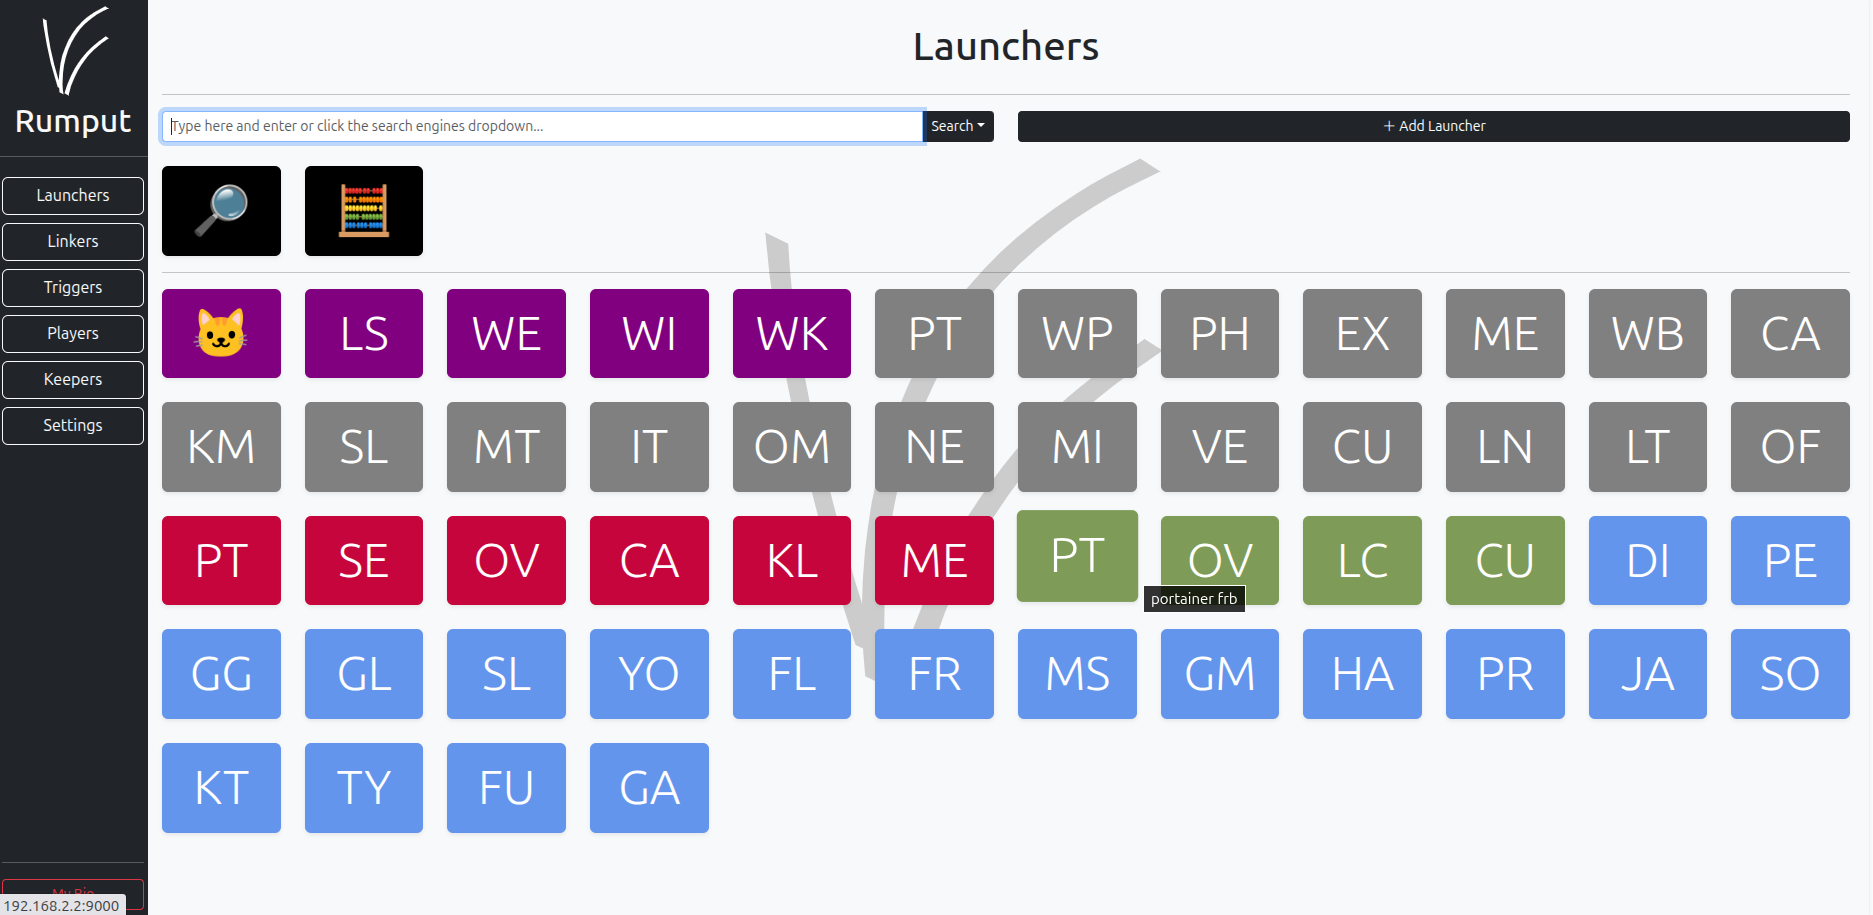
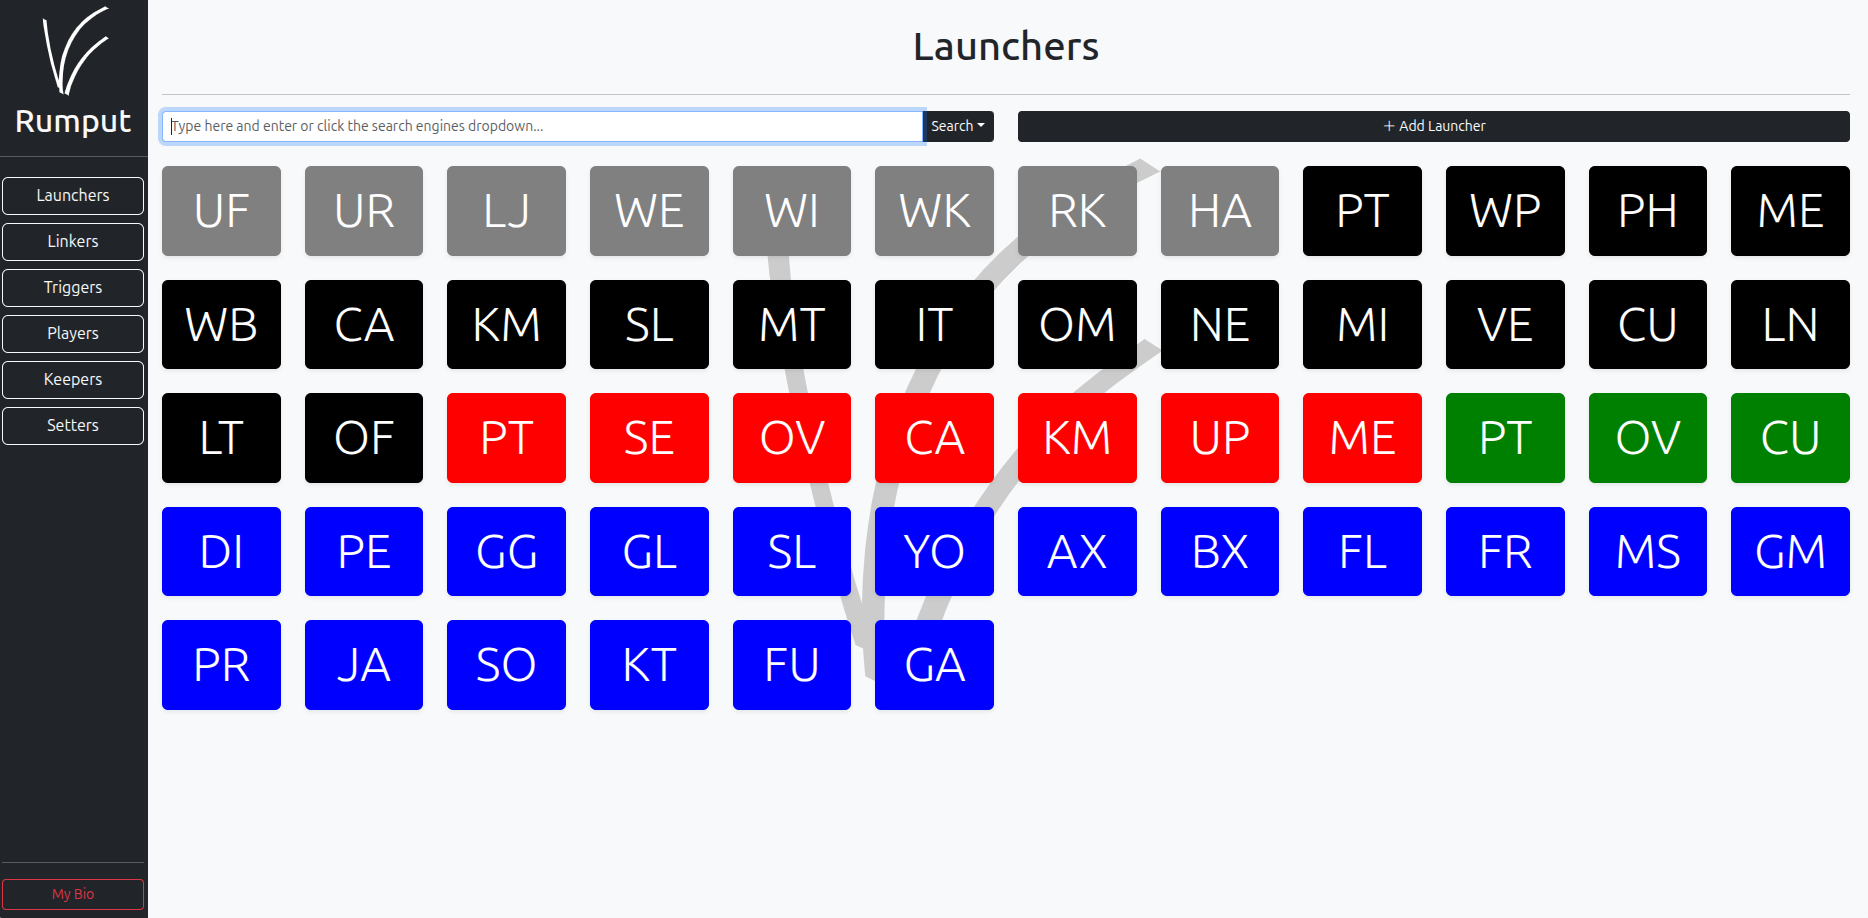
2026.04.18-0627

diff --git a/index.js b/index.js
@@ -7,7 +7,7 @@ import keeperRouter from './routes/keeper.js';
 import launcherRouter from './routes/launcher.js';
 import triggerRouter from './routes/trigger.js';
 import playerRouter from './routes/player.js';
-import settingRouter from './routes/setting.js';
+import setterRouter from './routes/setter.js';
 import redirRouter from './routes/redir.js';
 
 const __dirname = import.meta.dirname;
@@ -33,7 +33,7 @@ app.set('view engine', '.hbs');
 app.set('views', './views');
 app.use("/public", express.static(path.join(__dirname, "public")));
 
-app.use("/settings", settingRouter);
+app.use("/setters", setterRouter);
 app.use("/keepers", keeperRouter);
 app.use("/linkers", linkerRouter);
 app.use("/launchers", launcherRouter);

diff --git a/routes/setter.js b/routes/setter.js
@@ -44,10 +44,10 @@ router.get('/', (req, res) => {
         };
     }
 
-    res.render("setting", {
+    res.render("setter", {
         layout: "main",
-        title: "Rumput - Settings",
-        header: "Settings",
+        title: "Rumput - Setters",
+        header: "Setters",
         defaultSE: defaultSE.selected,
         defaultAF: defaultAF.selected,
     });
